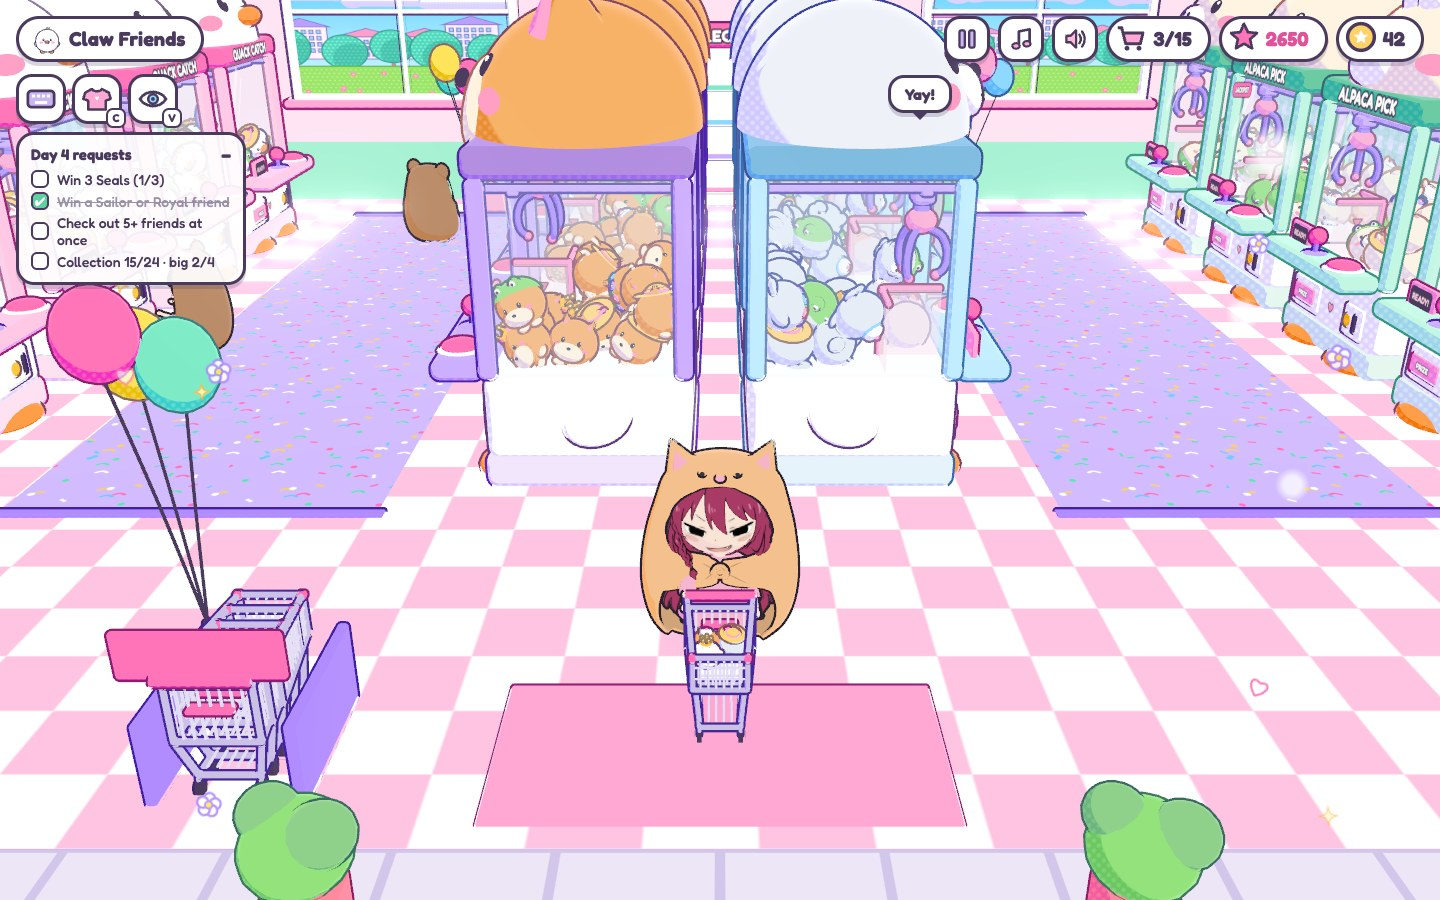
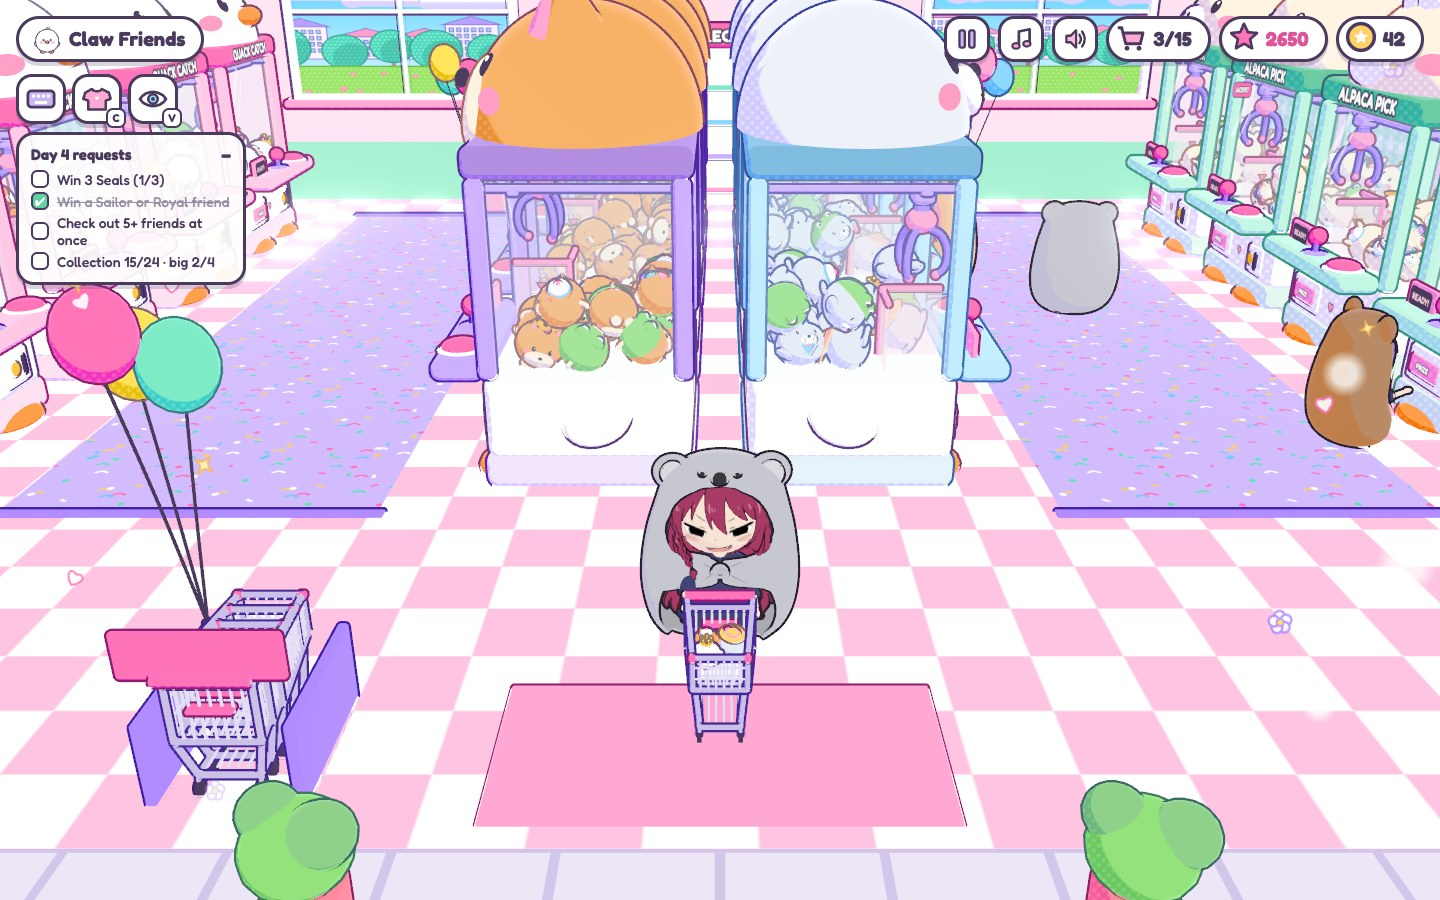
Show Kyoko in her own look in every screenshot
The ?demo save now dresses her as drawn (koala hood, navy top, grey shorts). README screenshots and GIF are retaken; the outfit and face rows are rendered one by one straight from the front.

diff --git a/game/src/save.js b/game/src/save.js
@@ -9,7 +9,7 @@ const DEMO = () => ({
   seen: {}, big: { duck: 1, seal: 1 }, shiny: { "duck-frog": true, "shiba-crown": true }, sets: { duck: true },
   goals: { cart: true, win3: true, swap: true, checkout: true }, day: 4,
   reqs: [{ kind: "species", sp: "seal", n: 3, have: 1, text: "Win 3 Seals" }, { kind: "tier", n: 1, have: 1, text: "Win a Sailor or Royal friend" }, { kind: "checkout", n: 5, have: 0, text: "Check out 5+ friends at once" }],
-  outfit: { hood: "cat", top: "pink", bottom: "white", hair: "red", face: "idle", height: "m", shoes: "boots" },
+  outfit: { hood: "koala", top: "navy", bottom: "grey", hair: "red", face: "idle", height: "m", shoes: "sneakers" },   // (her own look, as drawn)
 });
 const fresh = () => ({ coins: 30, owned: {}, ticketDay: "", score: 0, cart: [], seen: {}, big: {}, goals: {}, wins: 0, hasCart: false });
 
